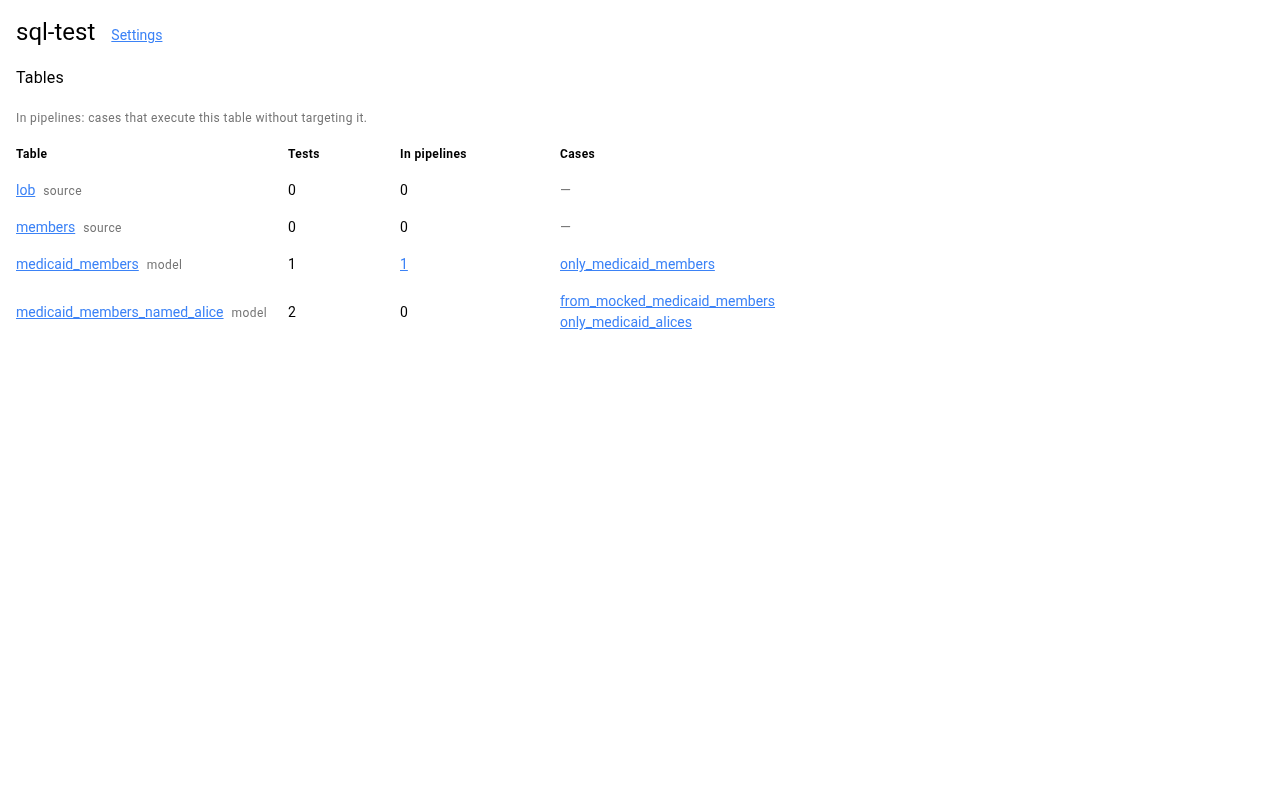
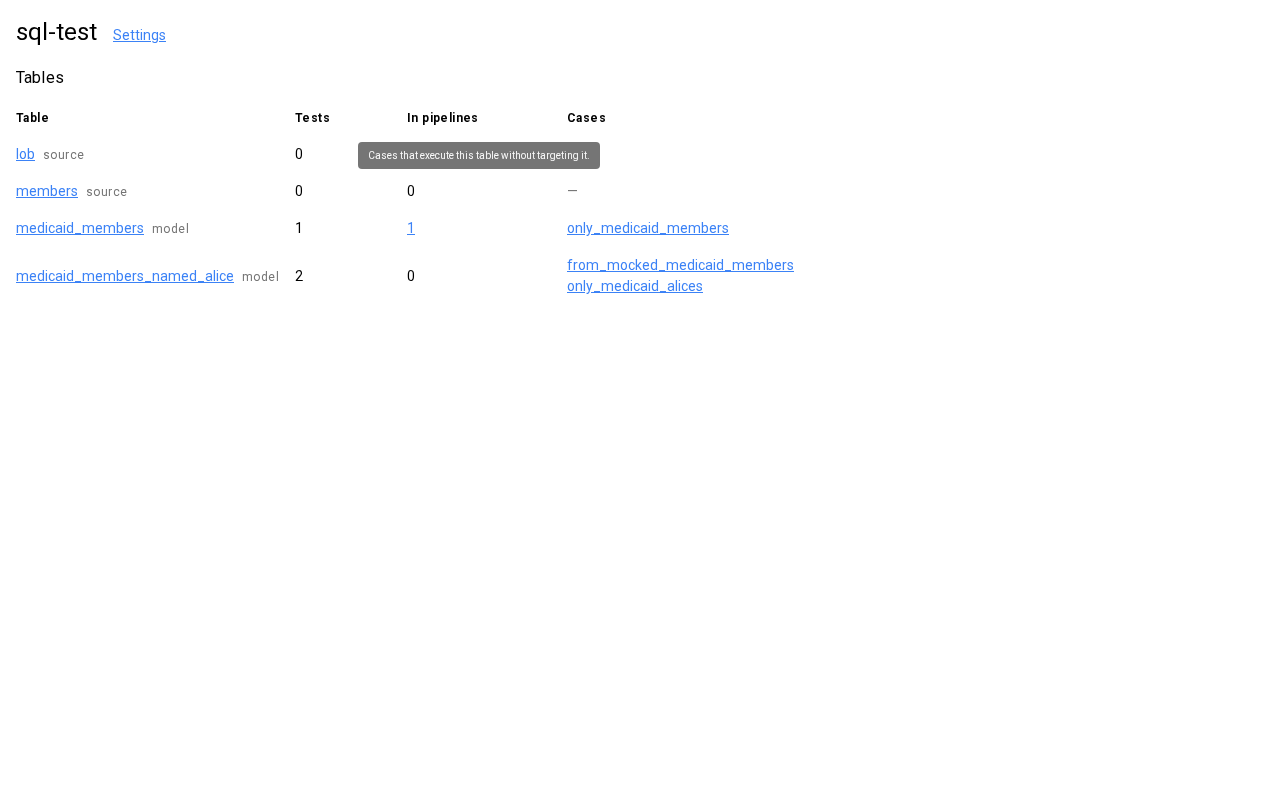
UAT-12: move In pipelines gloss to header tooltip

diff --git a/src/sql_test/integrations/app/home.py b/src/sql_test/integrations/app/home.py
@@ -27,9 +27,6 @@ def _tables(result: Discovery, catalog: Catalog) -> None:
     models = set(result.models)
     cases_by_target = _cases_by_target(result)
     ui.label("Tables").classes("text-subtitle1")
-    ui.label(
-        "In pipelines: cases that execute this table without targeting it."
-    ).classes("text-caption text-grey-7").mark("pipelines-gloss")
     if not report:
         ui.label("None").classes("text-grey-7")
         return
@@ -37,7 +34,12 @@ def _tables(result: Discovery, catalog: Catalog) -> None:
         "items-center"
     ):
         for heading in ("Table", "Tests", "In pipelines", "Cases"):
-            ui.label(heading).classes("text-caption text-weight-bold")
+            label = ui.label(heading).classes("text-caption text-weight-bold")
+            if heading == "In pipelines":
+                with label:
+                    ui.tooltip(
+                        "Cases that execute this table without targeting it."
+                    ).mark("pipelines-gloss")
         for row in report:
             with ui.row().classes("items-baseline gap-2"):
                 ui.link(

diff --git a/tests/test_app.py b/tests/test_app.py
@@ -75,12 +75,13 @@ async def test_app_page_lists_models_and_sources(user: User):
 
 
 async def test_home_glosses_in_pipelines_without_a_drill_in(user: User):
-    """UAT-12: first contact explains In pipelines on home, not only after click."""
+    """UAT-12: In pipelines header tooltip explains the column without a drill-in."""
     _register(FIXTURE)
     await user.open("/")
 
     await user.should_see(marker="pipelines-gloss")
-    assert "without targeting" in _text(user, "pipelines-gloss").lower()
+    (tip,) = user.find(kind=ui.tooltip, marker="pipelines-gloss").elements
+    assert "without targeting" in tip.text.lower()
 
 
 async def test_home_lists_cases_with_their_table(user: User):
